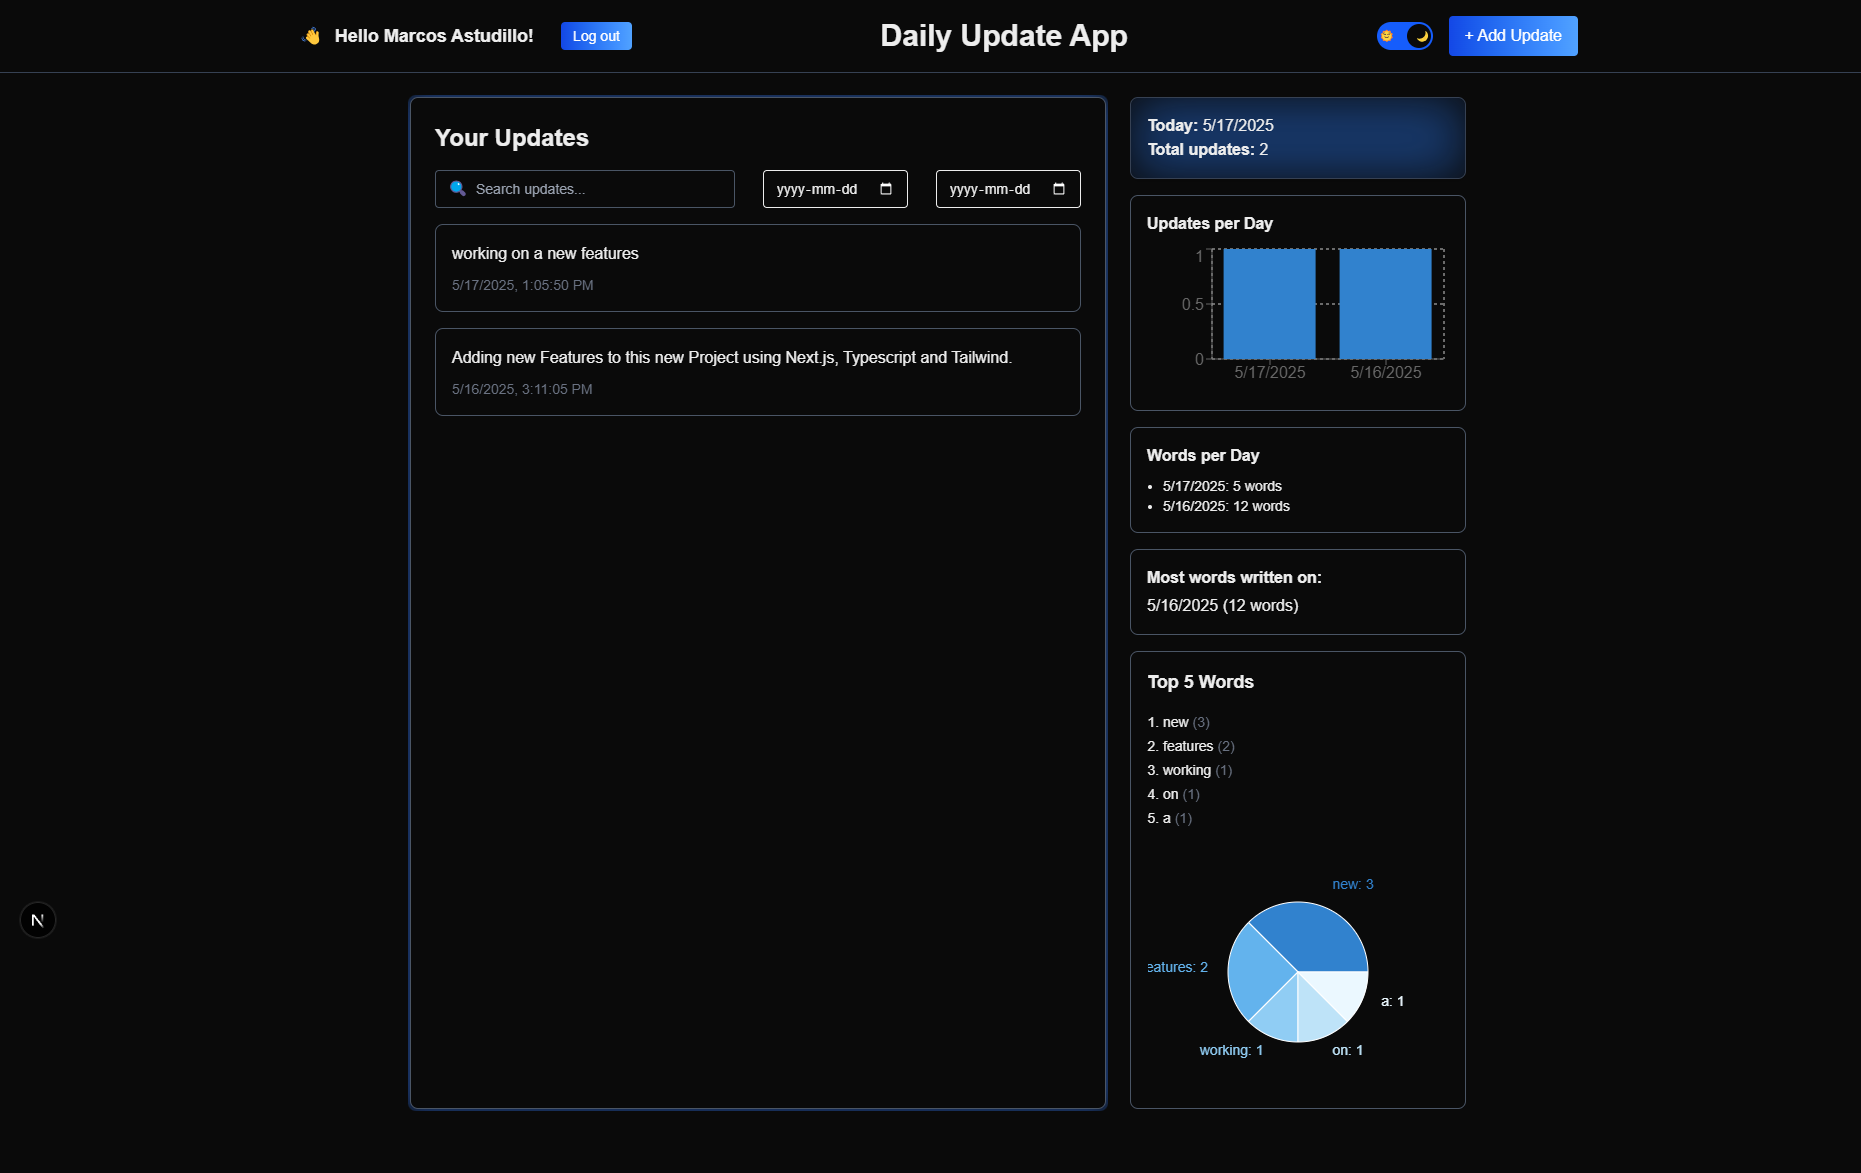
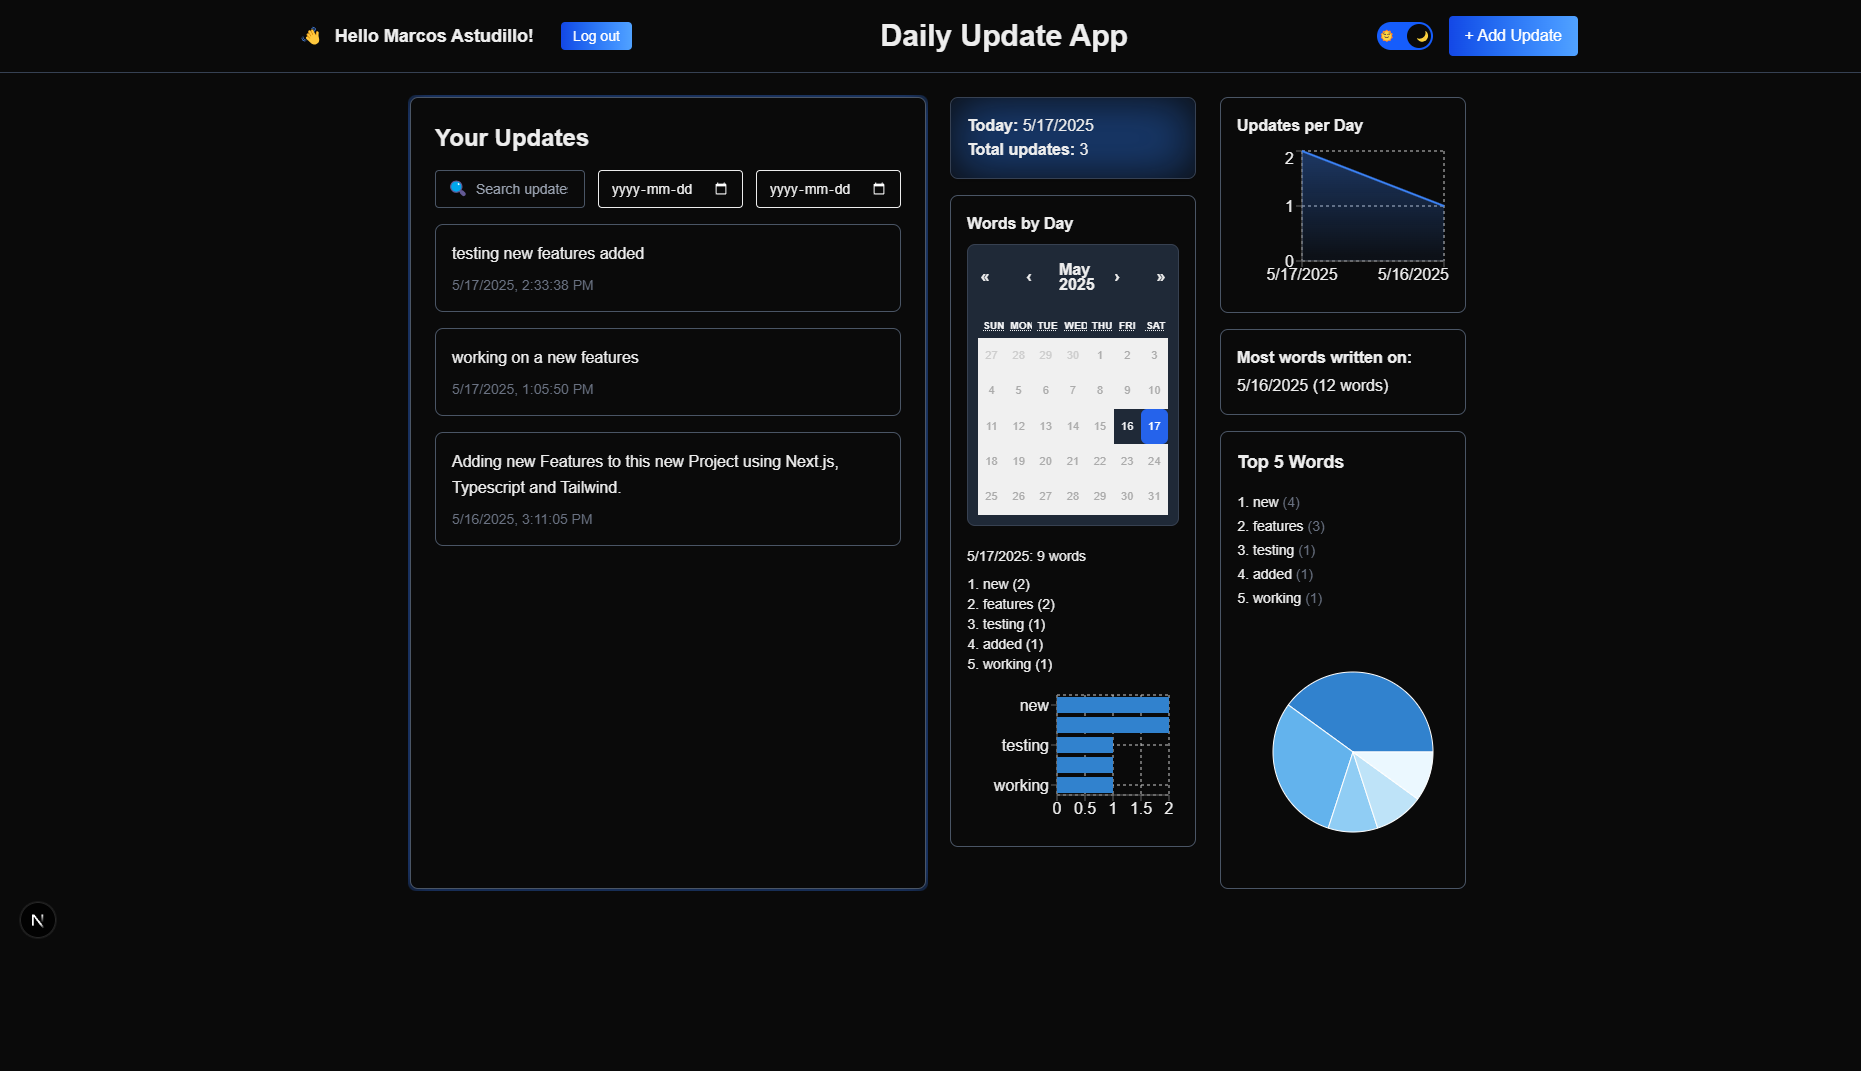
feat(dashboard): updated pie chart and change bar chart to AreaChart

diff --git a/src/components/DashboardView.tsx b/src/components/DashboardView.tsx
@@ -2,10 +2,12 @@
 
 import { useEffect, useState } from 'react'
 import {
-  AreaChart, Area, XAxis, YAxis, Tooltip, ResponsiveContainer,
+  BarChart, Bar, AreaChart, Area, XAxis, YAxis, Tooltip, ResponsiveContainer,
   CartesianGrid, PieChart, Pie, Cell
 } from 'recharts'
 import { useAuth } from '@/context/AuthContext'
+import Calendar from 'react-calendar'
+import 'react-calendar/dist/Calendar.css'
 
 type Update = {
   id: string
@@ -35,6 +37,8 @@ export default function Dashboard({ refresh, onAddClick }: Props) {
   const [startDate, setStartDate] = useState('');
   const [endDate, setEndDate] = useState('')
   const [refreshFlag, setRefreshFlag] = useState(false);
+  const [selectedDay, setSelectedDay] = useState<Date>(new Date());
+  const [topWordsForDay, setTopWordsForDay] = useState<[string, number][]>([]);
 
 
   useEffect(() => {
@@ -65,8 +69,6 @@ export default function Dashboard({ refresh, onAddClick }: Props) {
           if (startDate && endDate) {
             const start = startDate;
             const end = endDate;
-            console.log('====> start', start);
-            console.log('====> end', end);
 
             filtered = data.filter((u) => {
               const created = new Date(u.createdAt);
@@ -138,9 +140,29 @@ export default function Dashboard({ refresh, onAddClick }: Props) {
     }
   }, [startDate, endDate]);
 
+  useEffect(() => {
+    if (!selectedDay || !updates.length) return;
+
+    const updatesForDay = updates.filter(
+      (u) => new Date(u.createdAt).toLocaleDateString() === selectedDay.toLocaleDateString()
+    );    
+
+    const freq: Record<string, number> = {};
+
+    updatesForDay.forEach((u) => {
+      const words = u.content.toLowerCase().replace(/[^\w\s]/g, '').split(/\s+/).filter(Boolean);
+      words.forEach((word) => {
+        freq[word] = (freq[word] ?? 0) + 1;
+      });
+    });
+
+    const top = Object.entries(freq).sort((a, b) => b[1] - a[1]).slice(0, 5);
+    setTopWordsForDay(top);
+  }, [selectedDay, updates]);
+
   return (
     <main className="min-h-screen p-6 bg-[var(--background)] text-[var(--foreground)] transition-colors">
-      <div className="grid grid-cols-1 md:grid-cols-3 gap-6 max-w-6xl mx-auto">
+      <div className="grid grid-cols-1 md:grid-cols-4 gap-6 max-w-7xl mx-auto">
         {/* Column 1 : Updates list */}
         <div className="md:col-span-2 relative flex min-h-[520px]">
           {/* Animated background border */}
@@ -153,7 +175,7 @@ export default function Dashboard({ refresh, onAddClick }: Props) {
             <h1 className="text-2xl font-bold mb-4">Your Updates</h1>
             <div className="flex flex-wrap items-center justify-between gap-2 w-full mb-4">
               {/* Search input */}
-              <div className="relative flex-grow max-w-[300px]">
+              <div className="relative flex-grow max-w-[150px]">
                 <input
                   type="text"
                   value={filter}
@@ -235,7 +257,7 @@ export default function Dashboard({ refresh, onAddClick }: Props) {
             )}
           </div>
         </div>
-        {/* Column 2: Widgets */}
+        {/* Column 2 and 3 : Widgets */}
         <div className="space-y-4">
           <div className="bg-[var(--background)] text-[var(--foreground)] border border-gray-300 dark:border-gray-700 
             rounded-lg p-4 shadow-md hover:shadow-lg hover:border-blue-400 dark:hover:border-purple-500 
@@ -247,6 +269,59 @@ export default function Dashboard({ refresh, onAddClick }: Props) {
               <p className="font-medium"><strong>Total updates:</strong> {totalUpdates}</p>
             </div>
           </div>
+
+          <div className="bg-[var(--background)] text-[var(--foreground)] border border-gray-300 dark:border-gray-600 rounded-lg p-4 shadow-sm hover:shadow-md hover:scale-[1.02] hover:border-blue-400 dark:hover:border-blue-500 transition-all duration-200 animate-fade-in">
+            <h2 className="font-semibold mb-2">Words by Day</h2>
+            {/* Day selector */}
+            <div className="flex justify-center mb-5">
+              <Calendar
+                onChange={(date) => setSelectedDay(date as Date)}
+                value={selectedDay}
+                className="custom-calendar"
+                locale='en-US'
+                tileDisabled={({ date }) => {
+                  const formatted = date.toLocaleDateString()
+                  return !wordsPerDay[formatted]
+                }}
+              />
+            </div>
+
+            {/* Result of the day */}
+            {selectedDay && (
+              <>
+                <p className="text-sm mb-2">
+                  {selectedDay.toLocaleDateString()}: {wordsPerDay[selectedDay.toLocaleDateString()] ?? 0} words
+                </p>                
+                {topWordsForDay.length > 0 ? (
+                  <ol className="list-decimal text-sm ml-4">
+                    {topWordsForDay.map(([word, count]) => (
+                      <li key={word}>{word} ({count})</li>
+                    ))}
+                  </ol>
+                ) : (
+                  <p className="text-sm text-gray-500 italic">No data available</p>
+                )}
+              </>
+            )}
+
+            <ResponsiveContainer width="100%" height={140} className="mt-4">
+              <BarChart
+                data={topWordsForDay.map(([word, count]) => ({ word, count }))}
+                layout="vertical"
+                margin={{ top: 5, right: 10, left: 10, bottom: 5 }}
+              >
+                <CartesianGrid strokeDasharray="3 3" />
+                <XAxis type="number" />
+                <YAxis dataKey="word" type="category" width={80} />
+                <Tooltip />
+                <Bar dataKey="count" fill="#3182ce" />
+              </BarChart>
+            </ResponsiveContainer>
+          </div>
+        </div>
+
+        {/* Colum 2 and 3 */}
+        <div className="space-y-4">
           <div className="bg-[var(--background)] text-[var(--foreground)] border border-gray-300 dark:border-gray-600 rounded-lg p-4 shadow-sm hover:shadow-md hover:scale-[1.02] hover:border-blue-400 dark:hover:border-blue-500 transition-all duration-200 animate-fade-in">
             <h2 className="font-semibold mb-2">Updates per Day</h2>
             <ResponsiveContainer width="100%" height={150}>
@@ -274,14 +349,6 @@ export default function Dashboard({ refresh, onAddClick }: Props) {
                 <Area type="monotone" dataKey="count" stroke="#3b82f6" fill="url(#areaColor)" strokeWidth={2} />
               </AreaChart>
             </ResponsiveContainer>
-          </div>
-          <div className="bg-[var(--background)] text-[var(--foreground)] border border-gray-300 dark:border-gray-600 rounded-lg p-4 shadow-sm hover:shadow-md hover:scale-[1.02] hover:border-blue-400 dark:hover:border-blue-500 transition-all duration-200 animate-fade-in">
-            <h2 className="font-semibold mb-2">Words per Day</h2>
-            <ul className="text-sm list-disc ml-4">
-              {Object.entries(wordsPerDay).map(([day, count]) => (
-                <li key={day}>{day}: {count} words</li>
-              ))}
-            </ul>
           </div>
           {maxWordDay && (
             <div className="bg-[var(--background)] text-[var(--foreground)] border border-gray-300 dark:border-gray-600 rounded-lg p-4 shadow-sm hover:shadow-md hover:scale-[1.02] hover:border-blue-400 dark:hover:border-blue-500 transition-all duration-200 animate-fade-in">
@@ -311,9 +378,9 @@ export default function Dashboard({ refresh, onAddClick }: Props) {
                     nameKey="name"
                     cx="50%"
                     cy="50%"
-                    outerRadius={70}
+                    outerRadius={80}
                     fill="#8884d8"
-                    label={({ name, value }) => `${name}: ${value}`}
+                    /*label={({ name, value }) => `${name}: ${value}`} */
                     labelLine={false}
                   >
                     {topWords.map((_, index) => (

diff --git a/src/app/globals.css b/src/app/globals.css
@@ -73,3 +73,70 @@ input[type="date"]::-webkit-calendar-picker-indicator {
 .recharts-wrapper text {
   fill: currentColor !important;
 }
+
+.react-calendar {
+  background-color: var(--background);
+  color: var(--foreground);
+  border-radius: 8px;
+  padding: 10px;
+  border: 1px solid var(--border-color, #e5e7eb);
+  font-family: inherit;
+}
+
+.dark .react-calendar {
+  background-color: #1f2937;
+  color: #f3f4f6;
+  border-color: #374151;
+}
+
+.react-calendar__tile--now {
+  background: #3b82f6 !important;
+  color: white;
+  border-radius: 6px;
+}
+
+.react-calendar__tile--active {
+  background: #2563eb !important;
+  color: white !important;
+  border-radius: 6px;
+}
+
+.react-calendar__month-view__days__day--neighboringMonth {
+  color: #9ca3af;
+}
+
+.react-calendar__tile:hover {
+  background-color: #1e40af22;
+  border-radius: 6px;
+}
+
+.custom-calendar {
+  width: 220px;
+  font-size: 0.85rem;
+}
+
+.custom-calendar .react-calendar__navigation {
+  display: flex;
+  justify-content: center;
+  align-items: center;
+}
+
+.custom-calendar .react-calendar__navigation button {
+  background: transparent;
+  border: none;
+  color: var(--foreground);
+  font-weight: bold;
+  font-size: 1rem;
+  padding: 4px 8px;
+  transition: background 0.2s ease;
+}
+
+.custom-calendar .react-calendar__navigation button:disabled {
+  color: #888;
+  opacity: 0.6;
+}
+
+.custom-calendar .react-calendar__navigation button:hover {
+  background-color: rgba(100, 100, 100, 0.1);
+  border-radius: 4px;
+}
